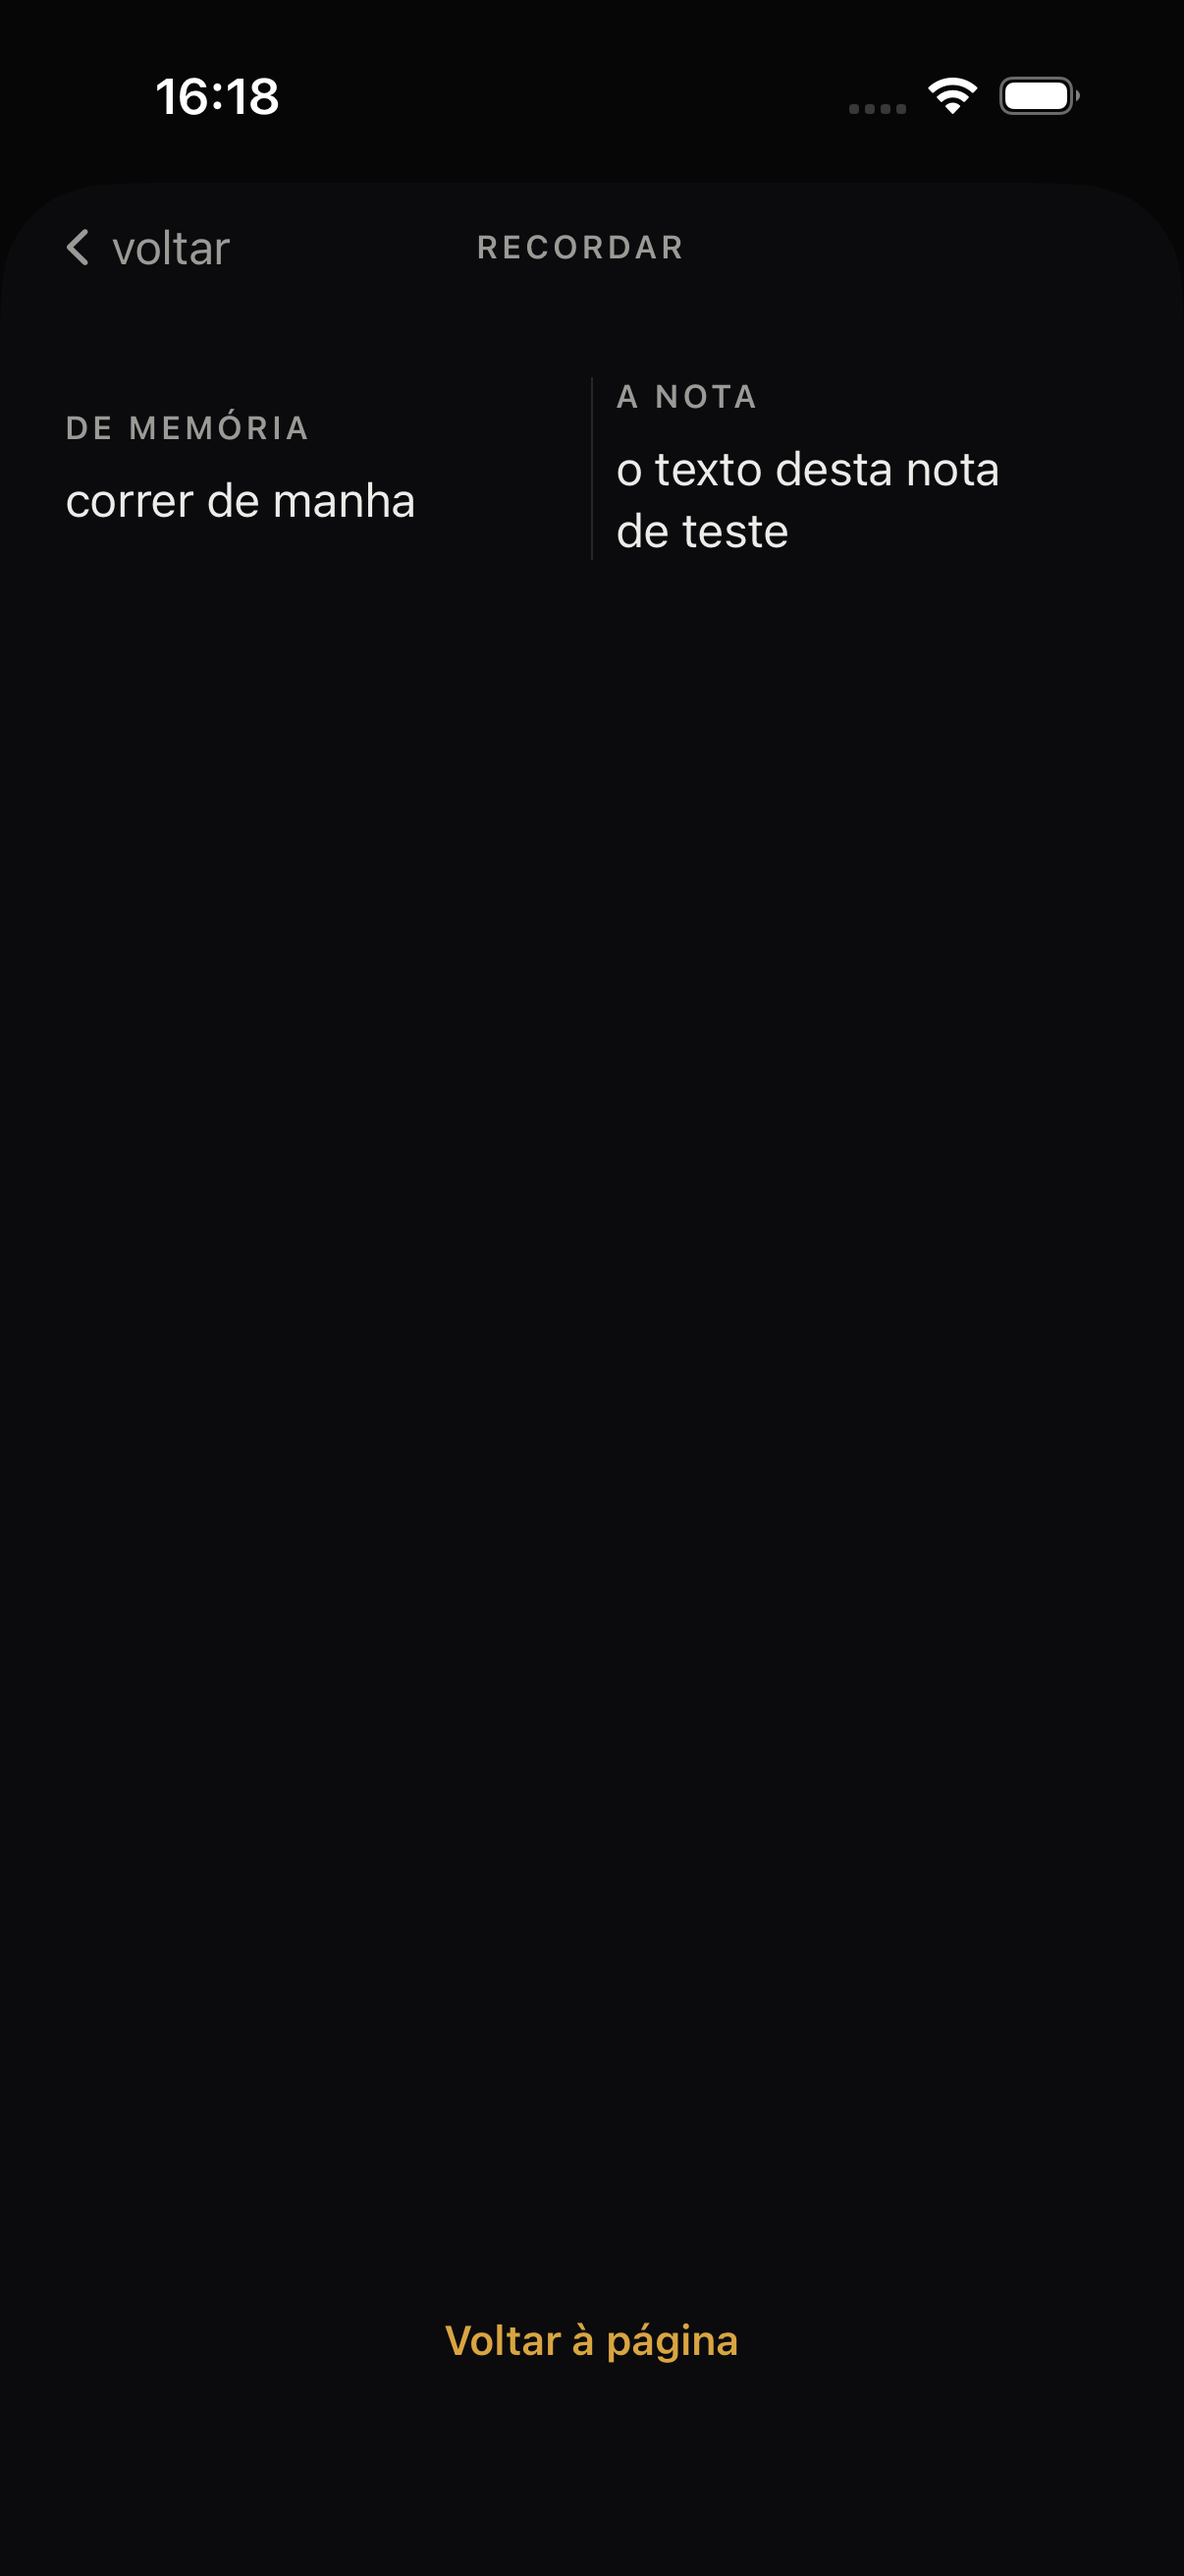
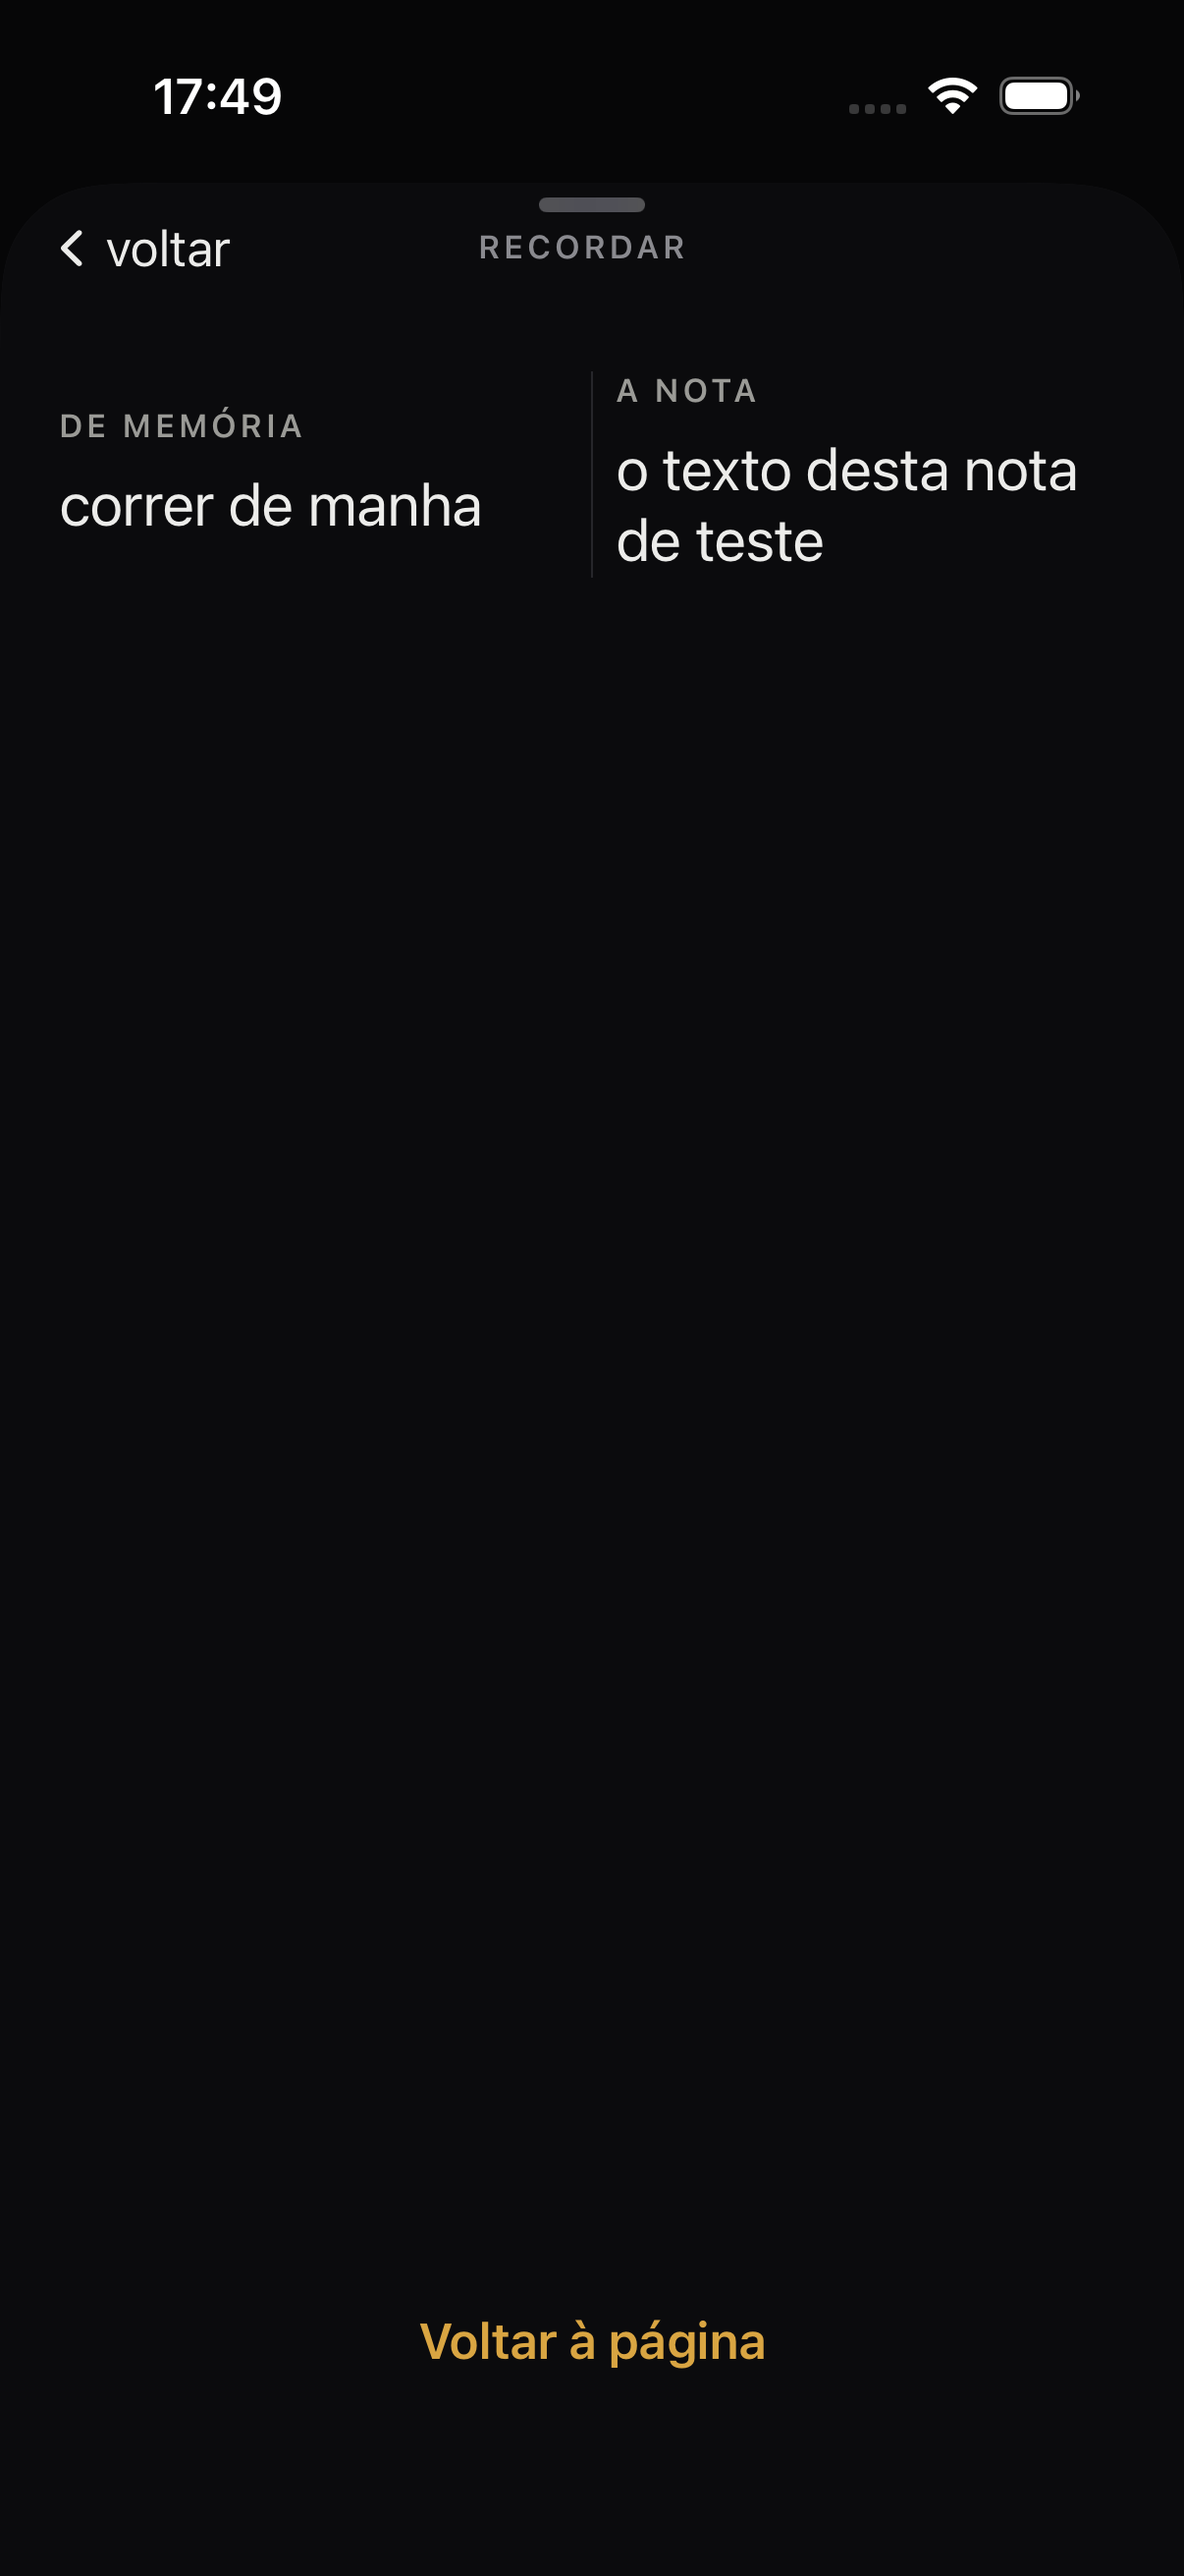
polimento rodada 6: a folha do Recordar ganha material e hierarquia no cabeçalho
- a folha usava a MESMA cor da página que cobre (#0B0B0D sobre #0B0B0D): não
  havia separação nenhuma entre a camada e o que está atrás
- 'voltar' (controle) e 'RECORDAR' (título) tinham a mesma cor e peso — nada
  dizia qual se toca e qual se lê (critique-visual-hierarchy)

diff --git a/Traco/Recordar/RecordarView.swift b/Traco/Recordar/RecordarView.swift
@@ -25,14 +25,17 @@ struct RecordarView: View {
     var body: some View {
         VStack(spacing: 0) {
             HStack {
+                // controle e título não podem vestir a mesma roupa: um se toca,
+                // o outro se lê (critique-visual-hierarchy)
                 Button { dismiss() } label: {
                     HStack(spacing: 5) {
                         Image(systemName: "chevron.backward")
                             .font(.subheadline.weight(.semibold))
                         Text("voltar")
+                            .font(Tema.chrome)
                     }
                 }
-                    .foregroundStyle(Tema.tintaSuave)
+                    .foregroundStyle(Tema.tinta)
                     .frame(minHeight: Tema.alvo)
                     .buttonStyle(PressaoDiscreta())
                     .accessibilityLabel("Voltar")
@@ -40,7 +43,7 @@ struct RecordarView: View {
                 Text("RECORDAR")
                     .font(Tema.label)
                     .tracking(Tema.trackingLabel)
-                    .foregroundStyle(Tema.tintaSuave)
+                    .foregroundStyle(Tema.tintaFraca)
                 Spacer()
                 Color.clear.frame(width: 64, height: Tema.alvo)
             }

diff --git a/Traco/Pagina/PaginaView.swift b/Traco/Pagina/PaginaView.swift
@@ -63,8 +63,8 @@ struct PaginaView: View {
             RecordarView(texto: sessao.recordarTexto, campos: sessao.recordarCampos) {
                 sessao.cumprirRevisaoPendente(no: context)
             }
-                .presentationBackground(Tema.fundo)
-                .presentationDragIndicator(.hidden)
+                .presentationBackground(Tema.superficie)
+                .presentationDragIndicator(.visible)
         }
         .onAppear {
             // a chegada assenta em vez de piscar pronta
